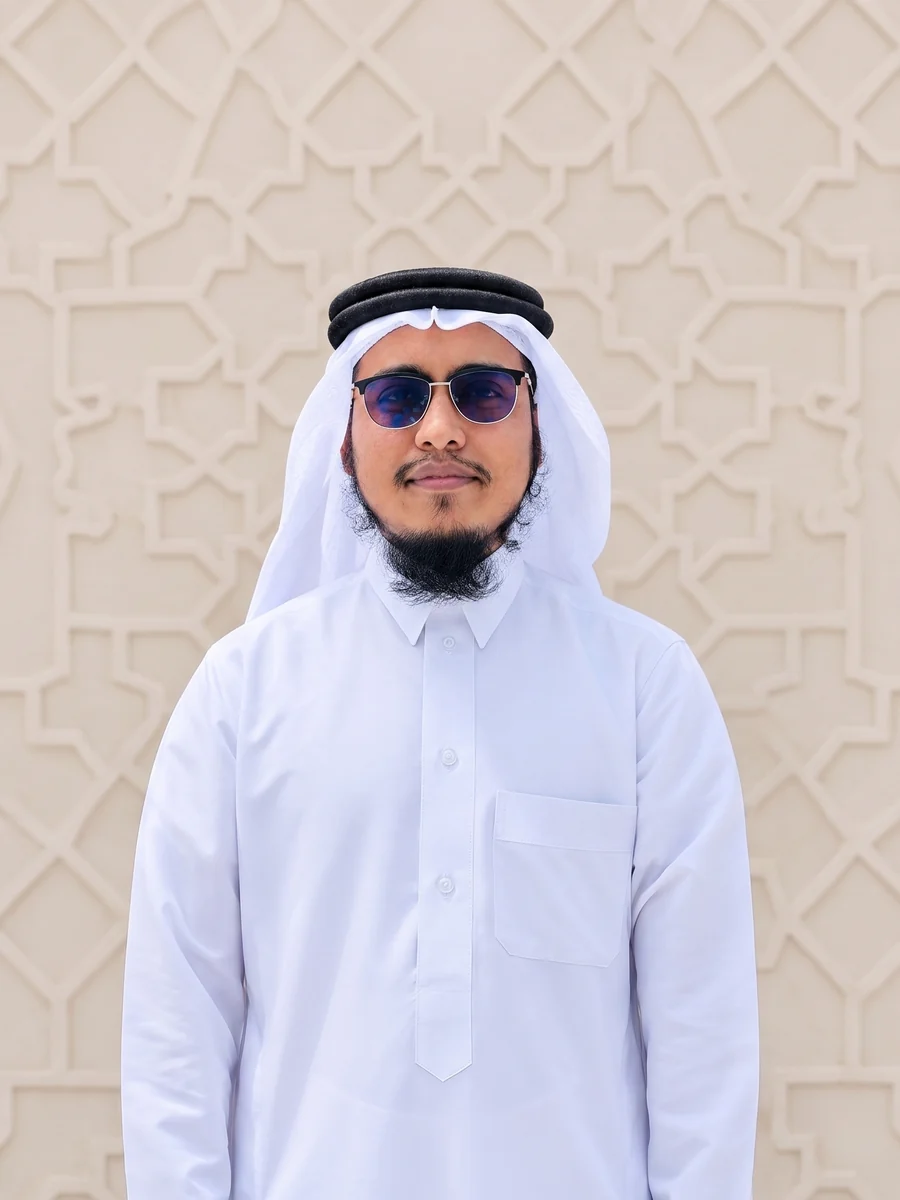
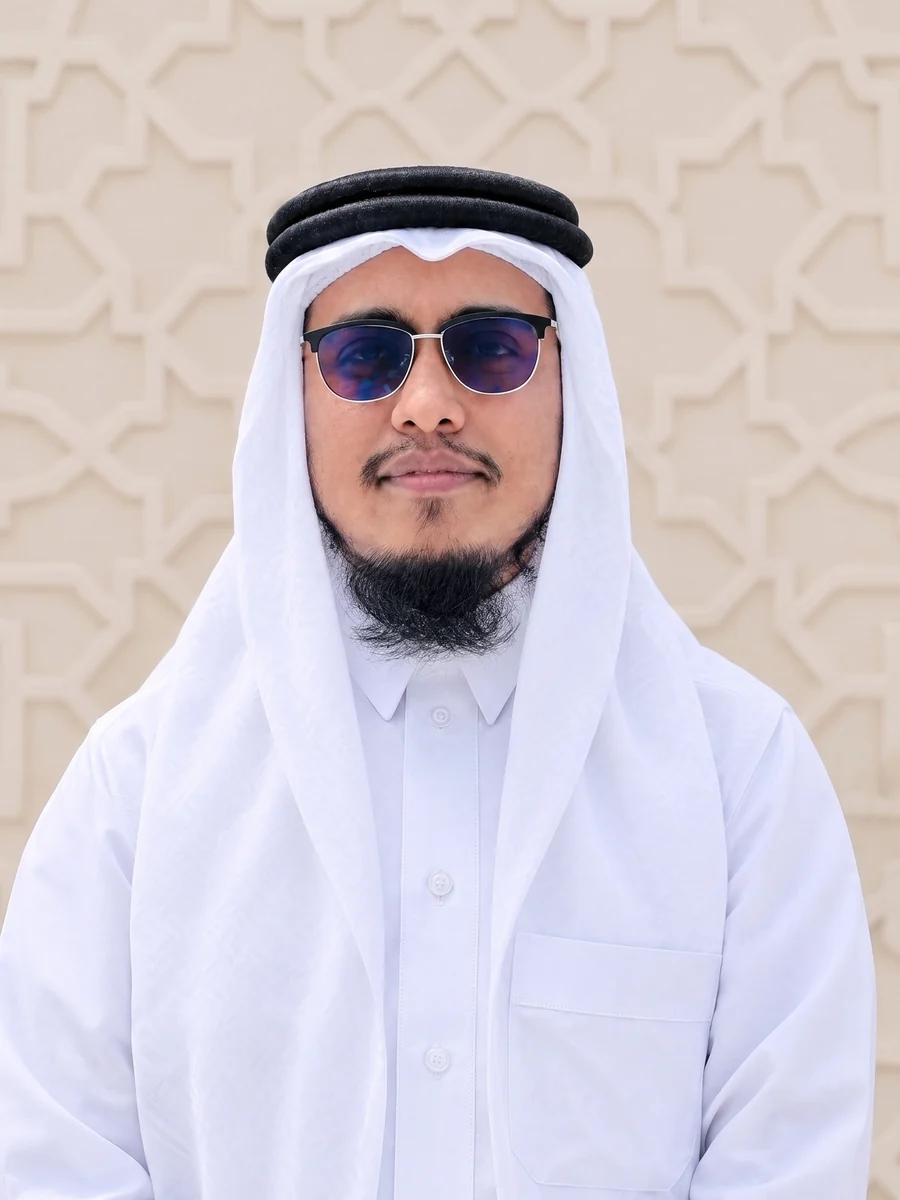
Re-drape the ghutra to the supplied reference
The client supplied a photo showing the headscarf drape they wanted, with
the face scribbled out.

- Reference-guided edit of the source portrait with both images as
  references: front edges now hang straight down alongside the cheeks and
  meet near the chin, fabric falling forward over the chest
- Face, beard, sunglasses, igal, thobe, lighting and the patterned wall
  are unchanged; nothing was taken from the reference person
- Run back through the same outpaint-then-crop pipeline, so the framing
  inside the mihrab niche matches the previous portrait exactly

diff --git a/public/index.html b/public/index.html
@@ -106,7 +106,7 @@
     </div>
 
     <figure class="hero__media">
-      <img class="hero__img" src="assets/portrait-arch.webp?v=2" alt="MD Tariqul Islam"
+      <img class="hero__img" src="assets/portrait-arch.webp?v=3" alt="MD Tariqul Islam"
            width="900" height="1200" loading="eager" fetchpriority="high">
       <!-- Mihrab niche: the photograph is clipped to the arch, the twin rules trace it.
            viewBox is 3:4, matching .hero__media, so nothing distorts at any size. -->

diff --git a/README.md b/README.md
@@ -99,7 +99,11 @@ and only the wall is extended. Face, beard, sunglasses, ghutra, igal and thobe a
 unchanged from the original throughout.
 
 `portrait-arch.webp` is a 3:4 crop of the outpainted tall image, framed so the head sits
-about a third down — that is what the arch wants. To swap the hero photo, replace it
+about a third down — that is what the arch wants. Its ghutra was re-draped to a
+reference the client supplied: the two front edges hang straight down alongside the
+cheeks and meet near the chin, with the fabric falling forward over the chest. That was
+a reference-guided edit of the source portrait, then outpainted and cropped through the
+same pipeline, so the composition matches the earlier version exactly. To swap the hero photo, replace it
 with your own 3:4 image and update the `width`/`height` on the `.hero__img` in
 `public/index.html`. Its `src` carries a `?v=` query; bump it after replacing the file.
 
